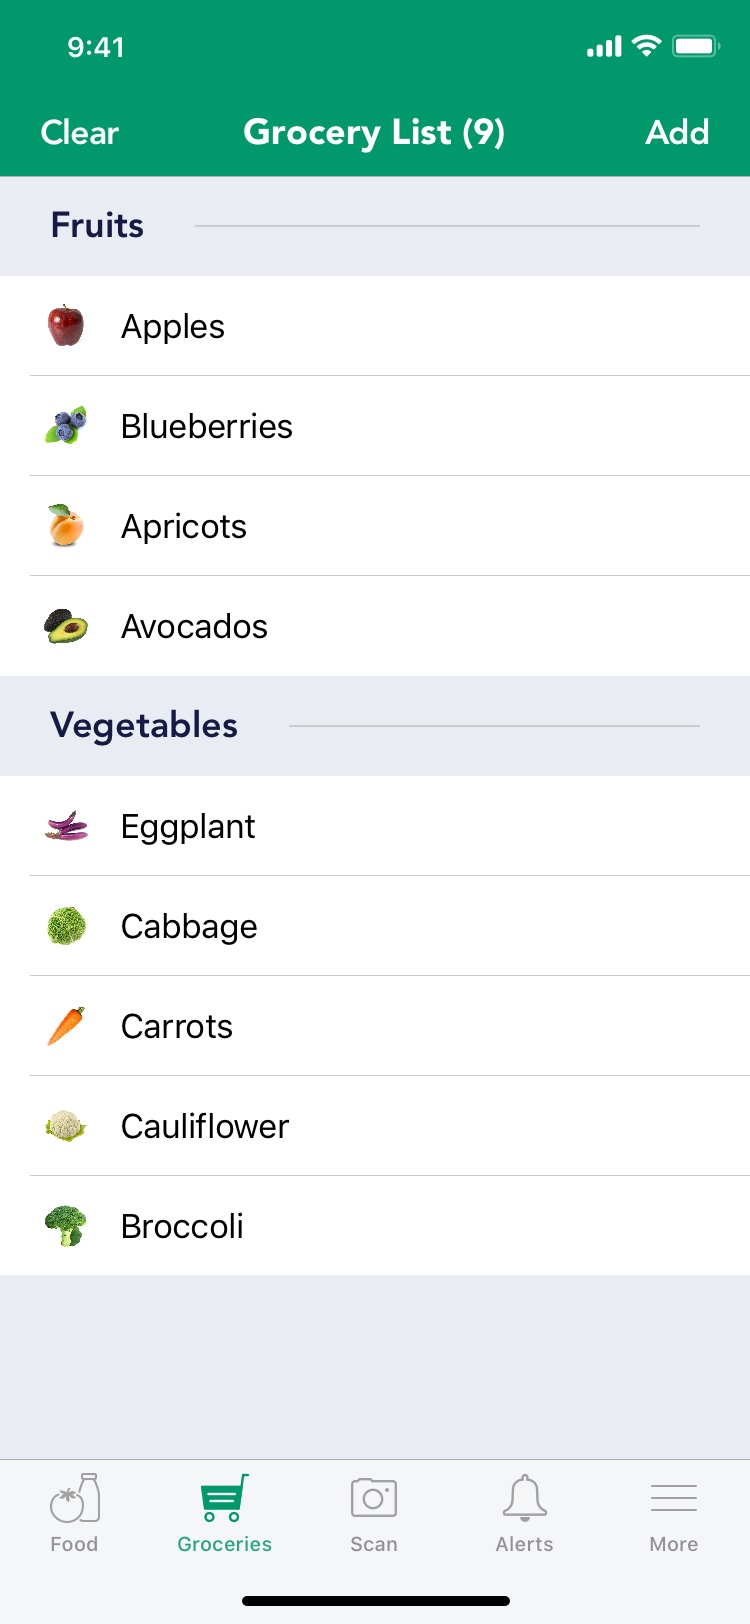
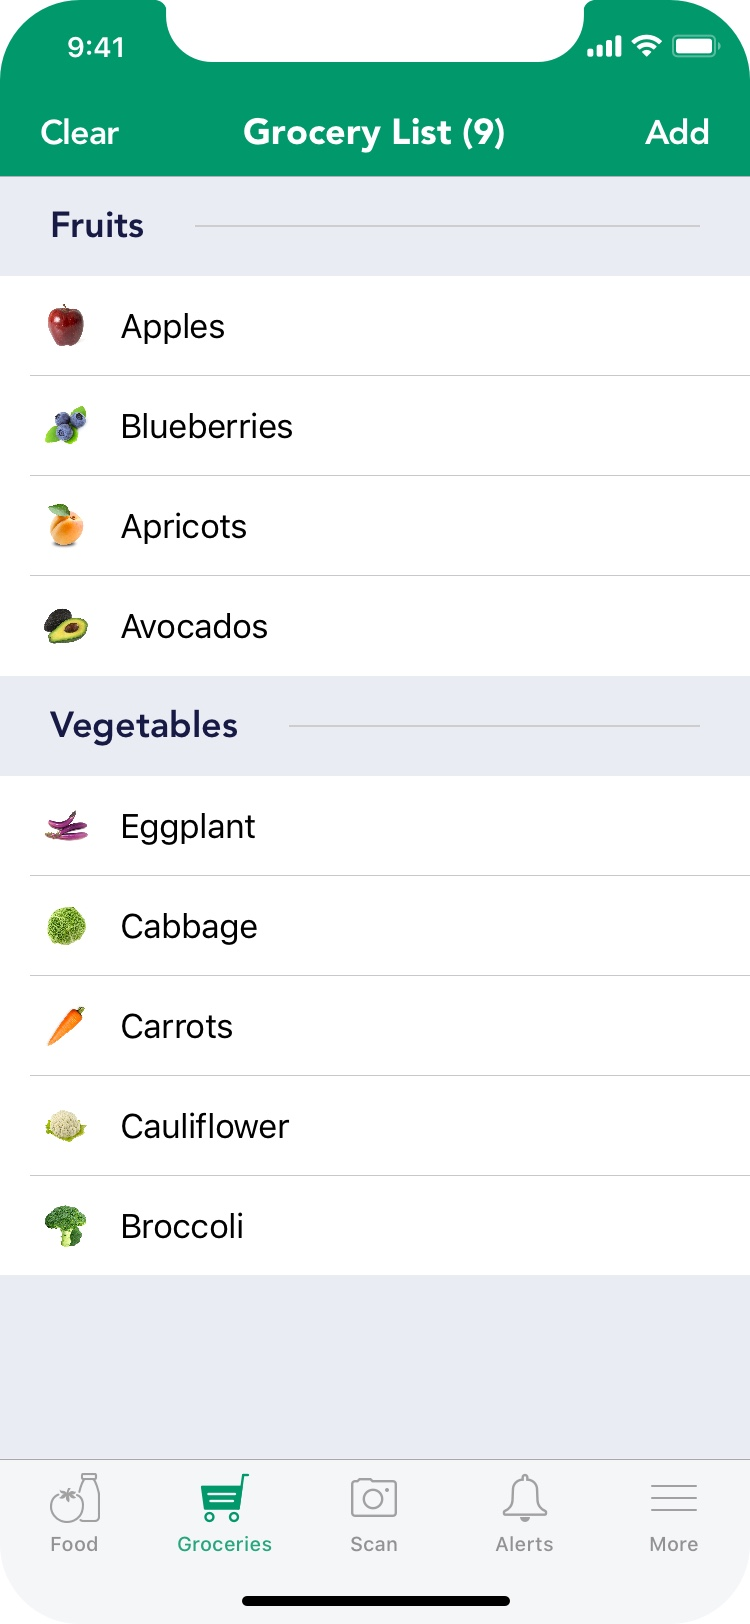
Fix images

Changed region(s): [[0.2147, 0.0, 0.7973, 0.0616], [0.92, 0.0, 1.0, 0.0616], [0.0, 0.0, 0.0613, 0.0308]]

diff --git a/css/main.css b/css/main.css
@@ -157,7 +157,7 @@ background-color: #f9f9f9;
   width: 250px;
   height: auto;
   margin: 28px 10px 16px 10px;
-  border-radius: 32px;
+  border-radius: 36px;
   background: #fff;
   box-shadow: 0 2px 12px 0 rgba(0,0,0,0.10);
   border-width: 8px;
